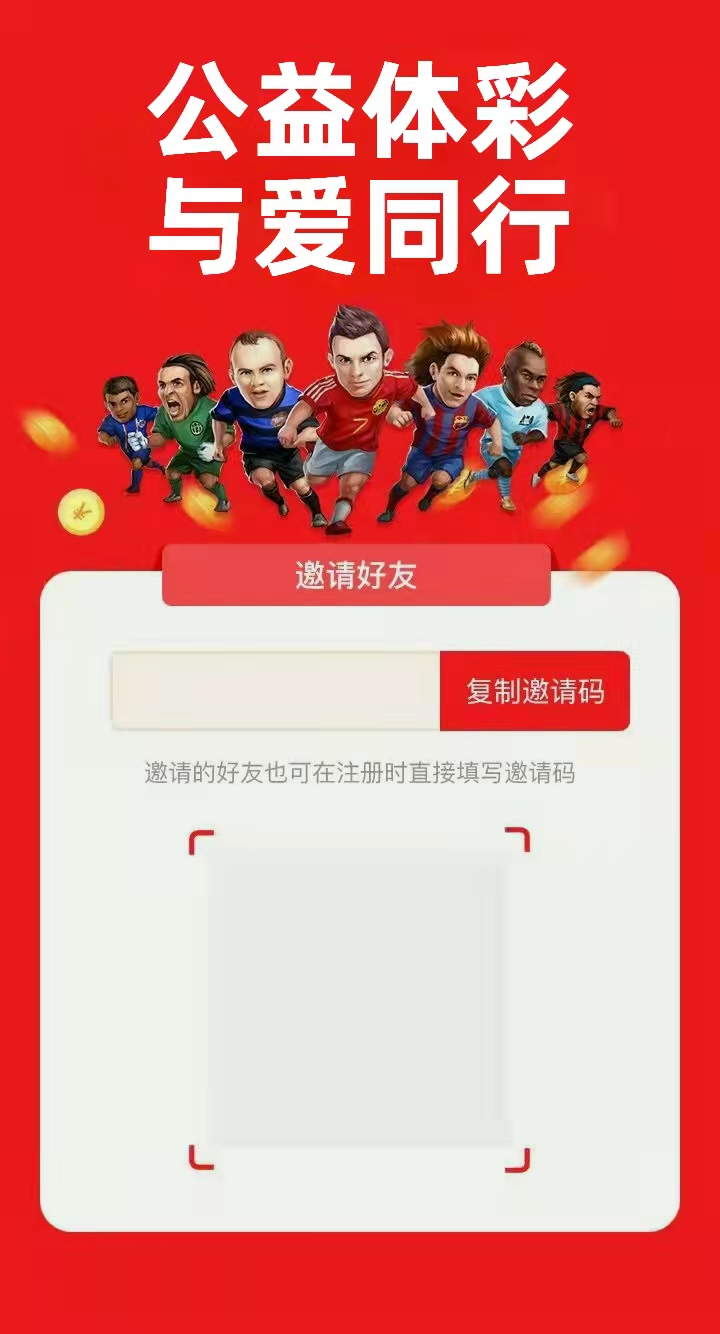
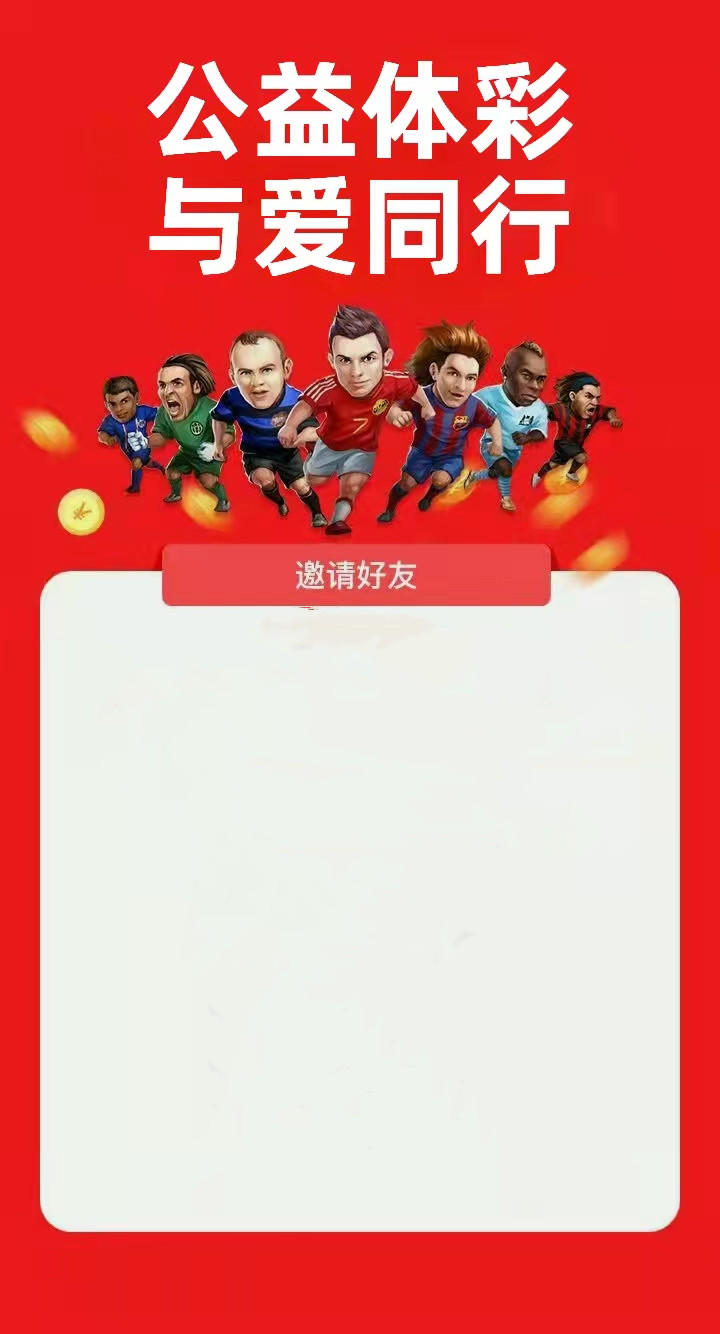
a

diff --git a/lib/pages/share.dart b/lib/pages/share.dart
@@ -1,6 +1,7 @@
 import 'package:flutter/cupertino.dart';
 import 'package:flutter/material.dart';
 import 'package:flutter/services.dart';
+import 'package:flutter_screenutil/flutter_screenutil.dart';
 import 'package:flutterapp2/net/HttpManager.dart';
 import 'package:flutterapp2/net/ResultData.dart';
 import 'package:flutterapp2/utils/Toast.dart';
@@ -29,6 +30,7 @@ class _share extends State<share>{
   }
   @override
   Widget build(BuildContext context) {
+    ScreenUtil.instance = ScreenUtil(width: 417, height: 867)..init(context);
     // TODO: implement build
     return Scaffold(
       appBar: AppBar(
@@ -50,31 +52,11 @@ class _share extends State<share>{
               width: double.infinity,
               child: Image.asset("img/share.jpg",fit: BoxFit.fill,),
             ),
-            Positioned(
-              left: 80,
-              top: 258,
-              child: Row(
-                children: <Widget>[
-                  Container(
-                    child: Text(invite_code,style: TextStyle(letterSpacing: 5),),
-                  ),
-                  GestureDetector(
-                    onTap: (){
-                      Future res = Clipboard.setData(ClipboardData(text: invite_code));
-                      res.whenComplete(() =>Toast.toast(context,msg: "复制成功"));
-                    },
-                    child: Container(
-                      padding: EdgeInsets.only(left: 80),
-                      child: Text("                       "),
-                    ),
-                  )
-                ],
-              ),
-            ),
+
             url!=""?Container(
               alignment: Alignment.center,
-              margin: EdgeInsets.only(top: 255),
-              child: Image.network(url,width: 130,height: 130,),
+              margin: EdgeInsets.only(top: ScreenUtil().setHeight(280)),
+              child: Image.network(url,width: 165,height: 165,),
             ):Container()
           ],
         ),
